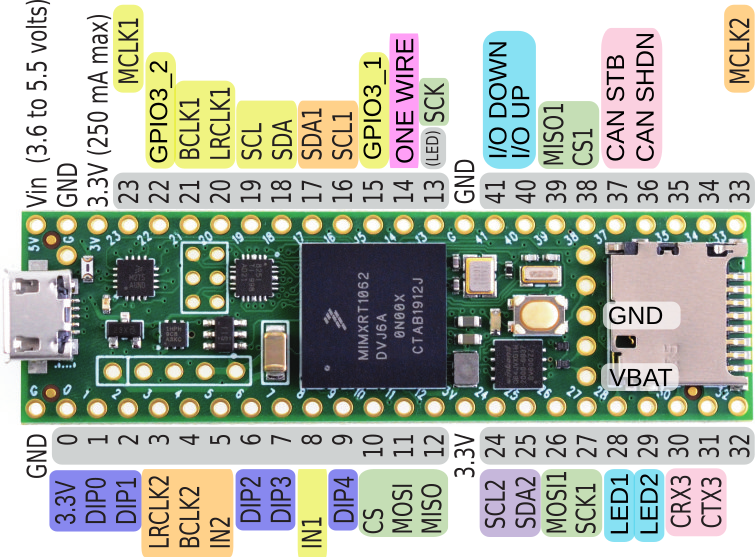
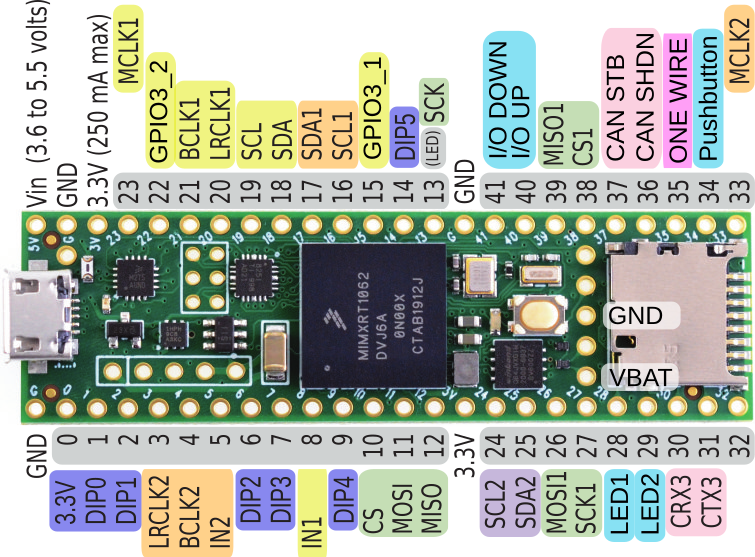
[R4.1b] added notes on power switch, push-button and on-board temperature sensor

Changed region(s): [[0.853, 0.0305, 0.9748, 0.3052], [0.5179, 0.061, 0.5788, 0.3052], [0.8225, 0.8546, 0.8834, 0.9767]]

diff --git a/R4.1/r41b.md b/R4.1/r41b.md
@@ -78,8 +78,8 @@ Figure 15 of the evaluation board manual:
 | 14             | -                | -                |
 | 15             | GPIO3_1 chip1    | -                |
 | 22             | GPIO3_2 chip2    | -                |
-| (0) remove     | -                | GPIO3 chip1      |
-| (1) remove     | -                | GPIO3 chip2      |
+| (0) remove     | -                | (GPIO3 chip1)    |
+| (1) remove     | -                | (GPIO3 chip2)    |
 
 
 ### Pre-amplifier
@@ -128,10 +128,10 @@ See:
 The onboard real-time clock of the Teensy needs power via a coin
 battery connected to the VBAT pin:
 
-| Teensy 4.1 pin | Teensy_Amp R4.1b |
-| -------------: | :--------------- |
-| GND            | GND              |
-| VBAT           | Coin battery     |
+| Teensy 4.1 pin | Teensy_Amp R4.1b         |
+| -------------: | :----------------------- |
+| GND            | GND                      |
+| VBAT           | Coin battery ((CR 2032)) |
 
 Place a coin-battery holder (CR 2032) on the PCB.
 
@@ -169,7 +169,7 @@ MISO has a 10k pullup resistance to VDD.
 ![deviceiddips](images/deviceiddips.png)
 
 For setting a device identifier that can be used to name the recorded
-files, for example, 5 DIP switches are connected to Teensy pins . Only
+files, for example, 6 DIP switches are connected to Teensy pins . Only
 when the device ID is read in, 3.3V are supplied to the dip switches
 via Teensy pin 0. The pull-down resistances have about 7kOhm. When a
 switch is closed, this makes 0.5mA. Six switches closed makes then
@@ -177,17 +177,48 @@ switch is closed, this makes 0.5mA. Six switches closed makes then
 
 R0 - R5 = 7kOhm
 
-The bit pattern read in on Teensy pins 35-40 can be transformed into a
+The bit pattern read in on Teensy pins can be transformed into a
 number between 0-63.
 
 | Teensy 4.1 pin | Teensy_Amp R4.1b |
 | -------------: | :--------------- |
 | GND            | GND              |
 | 0              | Power to DIPs    |
-| 1,2,6,7,9      | Device ID DIPs with pull-down 7k resistance  |
+| 1,2,6,7,9,14   | Device ID DIPs with pull-down 7k resistance  |
 
 
-## Sensors
+## Power
+
+Add two USB power inputs with on/off switch.
+
+Change power supply on the fly-
+
+
+## Pushbutton
+
+One push-button for starting and stopping data acquisition in a
+controlled way.
+
+| Teensy 4.1 pin | Teensy_Amp R4.1b |
+| -------------: | :--------------- |
+| 34             | Push button      |
+
+
+## On-bard temperatur sensor
+
+Place a temperature sensor on the PCB. Control it over the I2C2 bus:
+
+| Teensy 4.1 pin | Teensy_Amp R4.1b |
+| -------------: | :--------------- |
+| GND            | GND              |
+| 3.3V           | VDD              |
+| 24             | I2C2 SCL         |
+| 25             | I2C2 SDA         |
+
+This bus is also used for external sensors (see next section).
+
+
+## External sensors and devices
 
 Potential external sensors and devices to be connected to the R4.1b:
 
@@ -199,7 +230,7 @@ Potential external sensors and devices to be connected to the R4.1b:
 | -------------: | :--------------- |
 | GND            | GND              |
 | 3.3V           | VDD              |
-| 14             | OneWire data + 4.7kOhm to 3.3V |
+| 35             | OneWire data + 4.7kOhm to 3.3V |
 | 24             | I2C2 SCL         |
 | 25             | I2C2 SDA         |
 | 10             | SPI CS           |
@@ -214,6 +245,7 @@ Potential external sensors and devices to be connected to the R4.1b:
 - Replace CAN bus by isolated CAN bus.
 - Add a coin-battery holder (CR 2032) connected to Vbat for the Teensy real-time clock.
 - Replace signal screw-terminals by ENRI MiniBridge (right angle male SMT type A with 4 contacts on PCB, Female with 180 cable outlet, Koshiri variant, see https://www.mouser.de/datasheet/2/418/9/ENG_DS_erni_minibridge_1_27mm_connectors_ds_2206-3355850.pdf).
+- Add on-board temperature sensor.
 - Add one-wire pins (GND, 3.3V, data) for Dallas DS18x20 temperature sensor with 4.7kOhm pull-up resistor.
 - Add I2C pins (GND, 3.3V, SDA, SCL) pins for light sensor, etc.
 - LED pin close to I2C pins.
@@ -221,4 +253,4 @@ Potential external sensors and devices to be connected to the R4.1b:
 - Add GND pins (for electrode cable shield, etc.).
 - Add 4 to 6-bit dip switch for device identification.
 - Add one external SD card for backups.
-- Add two USB power inputs for replacing power banks on the fly.
+- Add two USB power inputs for replacing power banks on the fly, with on/off switch.
